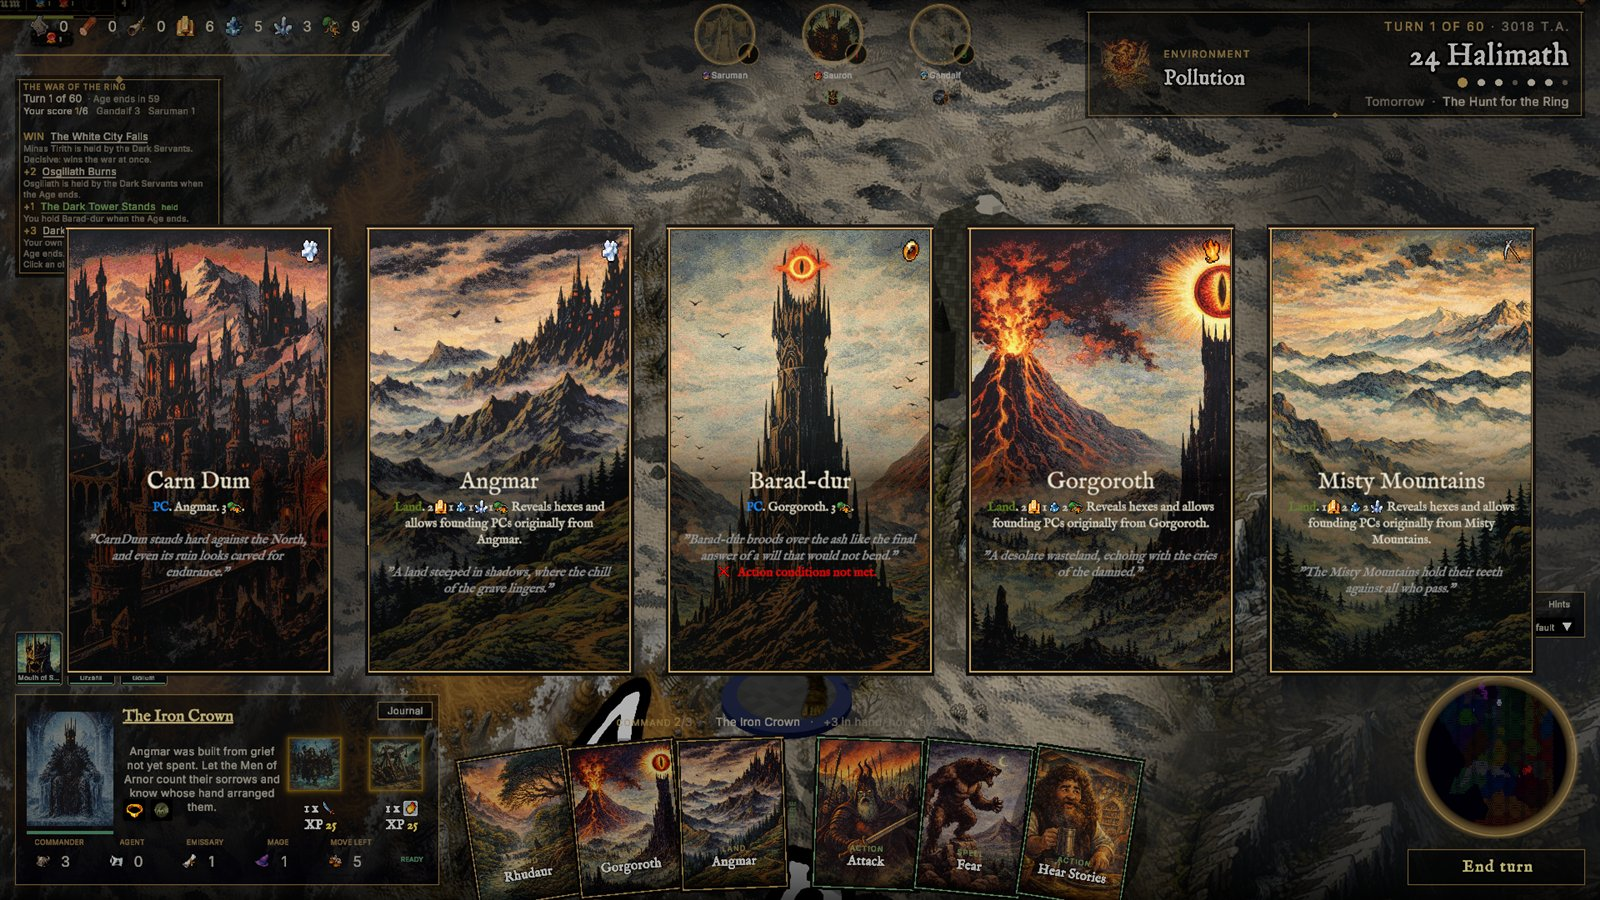
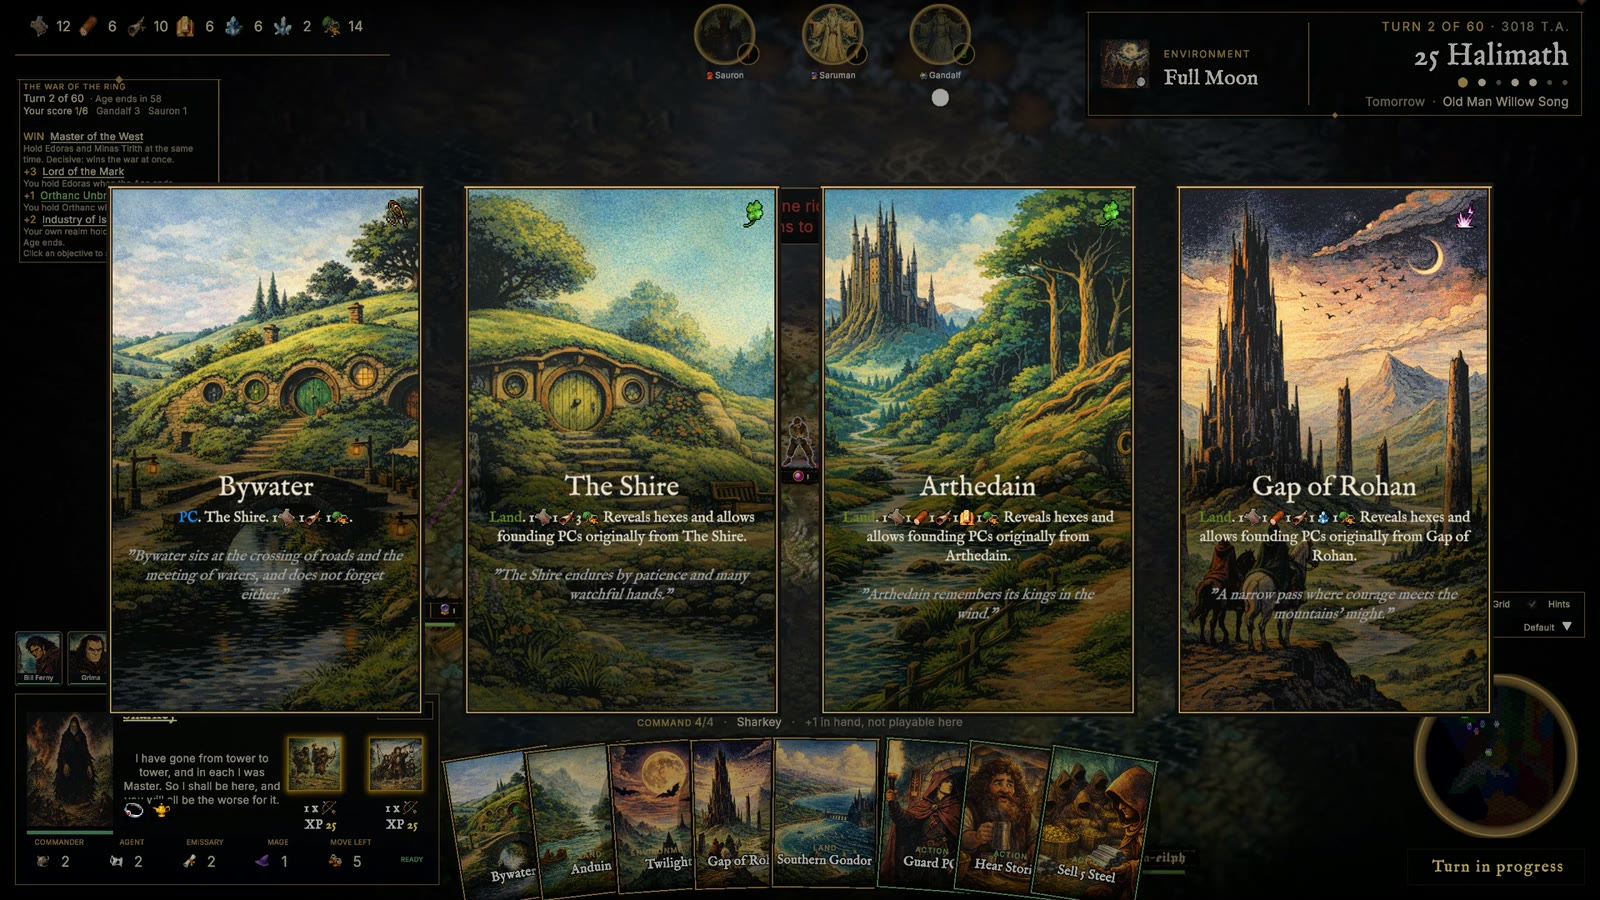
New trailer and matching README preview; clean screenshots
- Trailer cut from current in-game footage with the game's own Title Theme;
  the README preview GIF and the site poster come from the same cut.
- Replace the screenshots that showed the floating region-label letters.

diff --git a/docs/index.html b/docs/index.html
@@ -58,7 +58,7 @@
     <p class="eyebrow">See it in motion</p>
     <h2 class="title">A campaign unfolds</h2>
     <div class="frame frame--video reveal">
-      <video controls preload="metadata" poster="images/v2/shots/shire-turn.jpg">
+      <video controls preload="metadata" poster="images/v2/shots/trailer-poster.jpg">
         <source src="https://media.githubusercontent.com/media/josejuanmartinez/Runeboard/main/docs/videos/trailer.mp4" type="video/mp4">
         Your browser can't play this video. <a href="https://github.com/josejuanmartinez/Runeboard/blob/main/docs/videos/trailer.mp4">Watch the trailer on GitHub.</a>
       </video>
@@ -158,10 +158,10 @@
       <img src="images/v2/cards/eowyn.jpg" alt="Éowyn" loading="lazy">
     </div>
     <div class="split">
-      <figure class="frame reveal"><img src="images/v2/shots/places-bloom.jpg" alt="Places as cards: Carn Dûm, Angmar, Barad-dûr, Gorgoroth, the Misty Mountains" loading="lazy" data-zoom></figure>
+      <figure class="frame reveal"><img src="images/v2/shots/places-bloom.jpg" alt="Places as cards: Bywater, the Shire, Arthedain, the Gap of Rohan" loading="lazy" data-zoom></figure>
       <div class="steps">
         <div class="step"><span class="step__n">01</span><div><h3>Hover a name, meet the card</h3><p>Every character's title opens its full card — portrait, stats and abilities. Underlined armies open their own.</p></div></div>
-        <div class="step"><span class="step__n">02</span><div><h3>Places are cards too</h3><p>Carn Dûm, Angmar, Barad-dûr — every settlement and region carries the resources and standing it brings your realm.</p></div></div>
+        <div class="step"><span class="step__n">02</span><div><h3>Places are cards too</h3><p>Bywater, the Shire, Arthedain — every settlement and region carries the resources and standing it brings your realm.</p></div></div>
         <div class="step"><span class="step__n">03</span><div><h3>The world plays back</h3><p>Environmental cards like <em>Twilight</em> change the field for everyone, and rival nations play them against you.</p></div></div>
       </div>
     </div>
@@ -185,7 +185,7 @@
         <p>Encounters hide in the hexes and omens arrive with the dawn — illustrated moments that ask you to choose.</p>
       </li>
       <li class="turn__step reveal">
-        <figure class="frame"><img src="images/v2/shots/witch-king.jpg" alt="The Witch-king beside the 3D fortress of Carn Dûm" loading="lazy" data-zoom></figure>
+        <figure class="frame"><img src="images/v2/shots/armies.jpg" alt="Saruman's hosts mustered on the board" loading="lazy" data-zoom></figure>
         <h3>Fight for the ground</h3>
         <p>Armies clash and heroes duel. Hold strongholds, defend the roads, chase the objectives of your age.</p>
       </li>
@@ -252,7 +252,7 @@
       <img src="images/v2/shots/leader-gandalf.jpg" alt="Preparing the journey" loading="lazy" data-zoom>
       <img src="images/v2/shots/nazgul-hobbiton.jpg" alt="A Black Rider in Hobbiton" loading="lazy" data-zoom>
       <img src="images/v2/shots/card-preview.jpg" alt="A land card: Cardolan" loading="lazy" data-zoom>
-      <img src="images/v2/shots/white-city-falls.jpg" alt="Sauron's objective: The White City Falls" loading="lazy" data-zoom>
+      <img src="images/v2/shots/master-of-the-west.jpg" alt="Saruman's objective: Master of the West" loading="lazy" data-zoom>
       <img src="images/v2/shots/saruman-realm.jpg" alt="Saruman's realm under the fog" loading="lazy" data-zoom>
       <img src="images/v2/shots/barad-dur.jpg" alt="Sauron's lieutenant at Barad-dûr" loading="lazy" data-zoom>
       <img src="images/v2/cards/angmar.jpg" alt="Angmar" loading="lazy" data-zoom>

diff --git a/README.md b/README.md
@@ -4,7 +4,7 @@
 
 <img src="docs/images/v2/brand/title.jpg" alt="Runeboard title screen" width="720">
 
-<a href="https://github.com/josejuanmartinez/Runeboard/blob/main/docs/videos/trailer.mp4"><img src="docs/images/hero/trailer-preview.gif" alt="Watch the trailer" width="720"></a>
+<a href="https://github.com/josejuanmartinez/Runeboard/blob/main/docs/videos/trailer.mp4"><img src="docs/images/v2/trailer-preview.gif" alt="Watch the trailer" width="720"></a>
 
 <sub>Click the preview above to watch the full trailer.</sub>
 
@@ -74,7 +74,7 @@ Every character doubles as a card — hover a leader's name to see their full st
 
 <div align="center">
 <img src="docs/images/v2/shots/places-bloom.jpg" width="720"><br>
-<sub>Carn Dûm, Angmar, Barad-dûr, Gorgoroth, the Misty Mountains — every place is a card too</sub>
+<sub>Bywater, the Shire, Arthedain, the Gap of Rohan — every place is a card too</sub>
 </div>
 
 ## Gallery
@@ -82,7 +82,7 @@ Every character doubles as a card — hover a leader's name to see their full st
 <table>
 <tr>
 <td><img src="docs/images/v2/shots/shire-turn.jpg" width="380"></td>
-<td><img src="docs/images/v2/shots/witch-king.jpg" width="380"></td>
+<td><img src="docs/images/v2/shots/armies.jpg" width="380"></td>
 </tr>
 <tr>
 <td><img src="docs/images/v2/shots/nazgul-hobbiton.jpg" width="380"></td>
